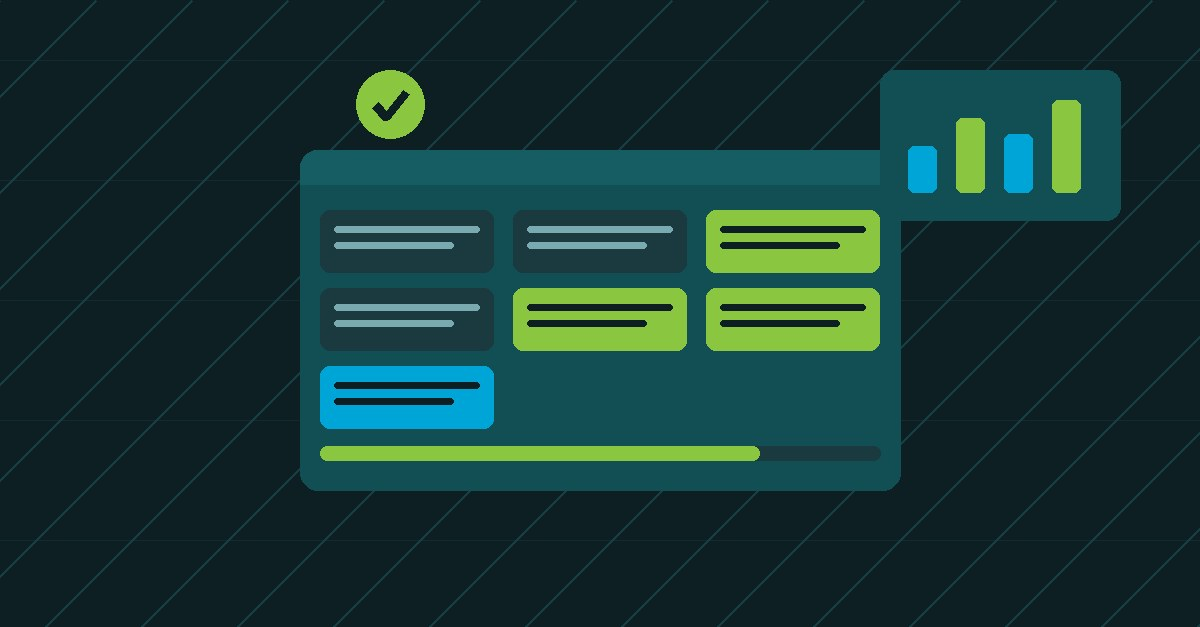
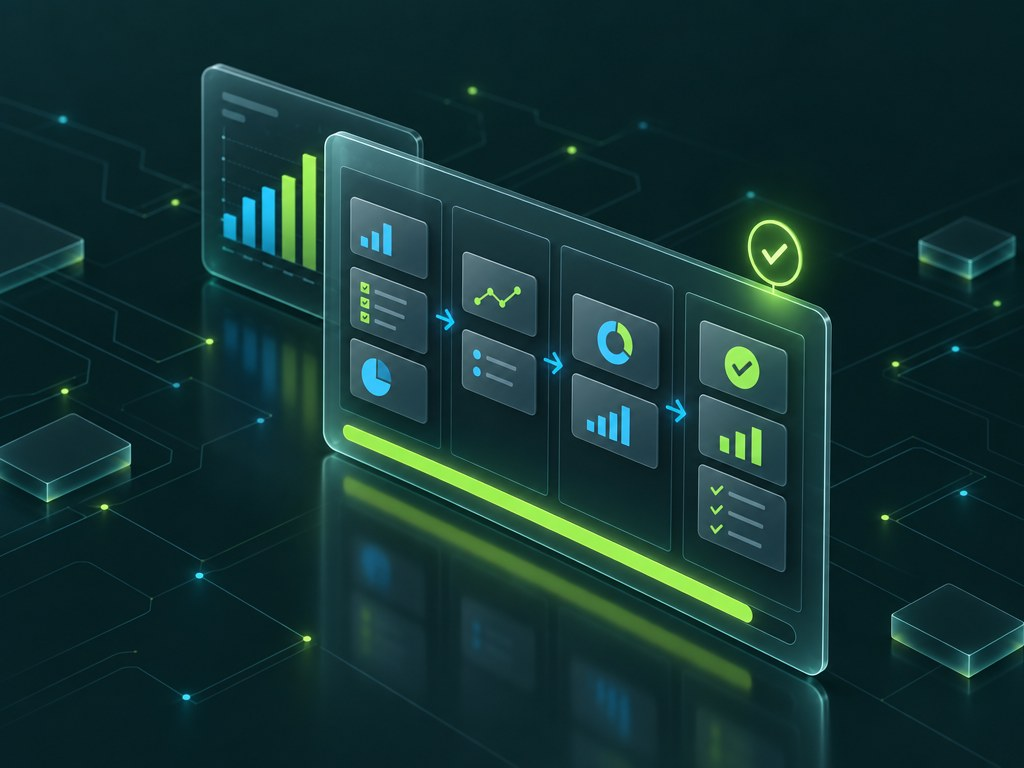
content: generated cover for the projects page
Replaces the placeholder with the generated illustration, which serves as
both the in-page image and the og:image. Delivered at 1024x768 (4:3)
rather than the requested 1200x627 - left as delivered, and a 1.91:1
centre crop keeps the panel and the tick intact.

The meta description no longer repeats the opening paragraph verbatim.

diff --git a/content/pages/projects.md b/content/pages/projects.md
@@ -1,7 +1,7 @@
 ---
 title: Projects
 path: /projects/
-description: Are you looking to build a SAS Powered App?  Modernise a legacy AF/SCL or SAS/IntrNet application?  Perhaps, migrate an existing SAS 9, Stored Process driven interface to Viya?
+description: SAS app development from the team behind SASjs - frontend, backend, docs and CI/CD pipeline, delivered into Viya, SAS 9 EBI or Foundation SAS.
 previewImg: '../assets/projects.jpeg'
 ---
 
@@ -44,8 +44,7 @@ For questions, or to book a discovery call, contact [Allan Bowe](https://www.lin
 
 <!--
 Image prompt (regenerate with routstr-genimg.py). This file is both the page
-illustration and the og:image (previewImg in the front matter), so save the
-generated file at content/assets/projects.jpeg to overwrite the placeholder.
+illustration and the og:image (previewImg in the front matter).
 
 Generate a 16:9 landscape illustration for a B2B software delivery page cover, 1200x627.
 
